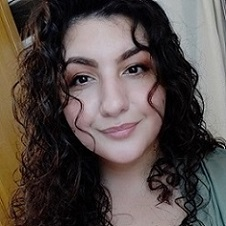
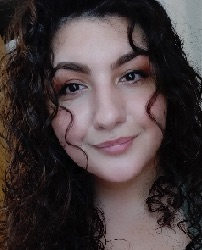
updated images and los formatting about.html

diff --git a/about.html b/about.html
@@ -94,7 +94,7 @@
           </div>
         </div>
       </div>
-      <div class="is-centered">
+      <div class="is-centered p-0">
         <img
           src="assets/images/book-divider.jpg"
           alt="line drawing with stacked books on each side of line divider"
@@ -105,7 +105,7 @@
 
     <!-- credits section starts -->
     <section id="credits" class="section py-0">
-      <div class="title has-text-centered mb-6">
+      <div class="title has-text-centered mb-7">
         <p>Credits</p>
       </div>
       <div class="container">
@@ -117,11 +117,10 @@
                 <img
                   src="assets/images/Dafina-G.jpg"
                   alt="Dafina Gjonbalaj, long curly hair and a smile."
-                  style="max-width: 87%"
                 />
               </div>
               <div>
-                <div class="is-size-4 has-text-weight-bold pt-4 pb-2">
+                <div class="is-size-4 has-text-weight-bold py-2">
                   Dafina Gjonbalaj
                 </div>
                 <a class="is-size-5 has-text-link" href="#"
@@ -165,9 +164,12 @@
           <!-- 2nd developer starts -->
           <div class="column has-text-centered">
             <div>
-              <div>
-                <img src="assets/images/makispear.jpg" alt="Maki A. Maki, short
-                hair, mustache and slight beard, with a smile."">
+              <div class="py-3">
+                <img 
+                src="assets/images/makispear.jpg" 
+                alt="Maki A. Maki, short
+                hair, mustache and slight beard, with a smile.""
+                />
               </div>
               <div>
                 <div class="is-size-4 has-text-weight-bold py-2">
@@ -219,7 +221,7 @@
           <!-- 3rd developer starts -->
           <div class="column has-text-centered">
             <div>
-              <div>
+              <div class="py-3">
                 <img
                   src="assets/images/gmateo.jpg"
                   alt="Guillero Mateo short hair, glasses and smiling."
@@ -272,7 +274,7 @@
           <!-- 4th developer starts -->
           <div class="column has-text-centered">
             <div>
-              <div>
+              <div class="py-3">
                 <img
                   src="assets/images/philip-p.jpg"
                   alt="Philip Powers, with a serious look."
@@ -325,7 +327,7 @@
           <!-- 5th developer starts -->
           <div class="column has-text-centered">
             <div>
-              <div class="py-3">
+              <div class="pt-3 p3-y">
                 <img
                   src="assets/images/S-Winslow.jpg"
                   alt="Sherri Winslow with long hair, sunglasses on head, and slight smile."
